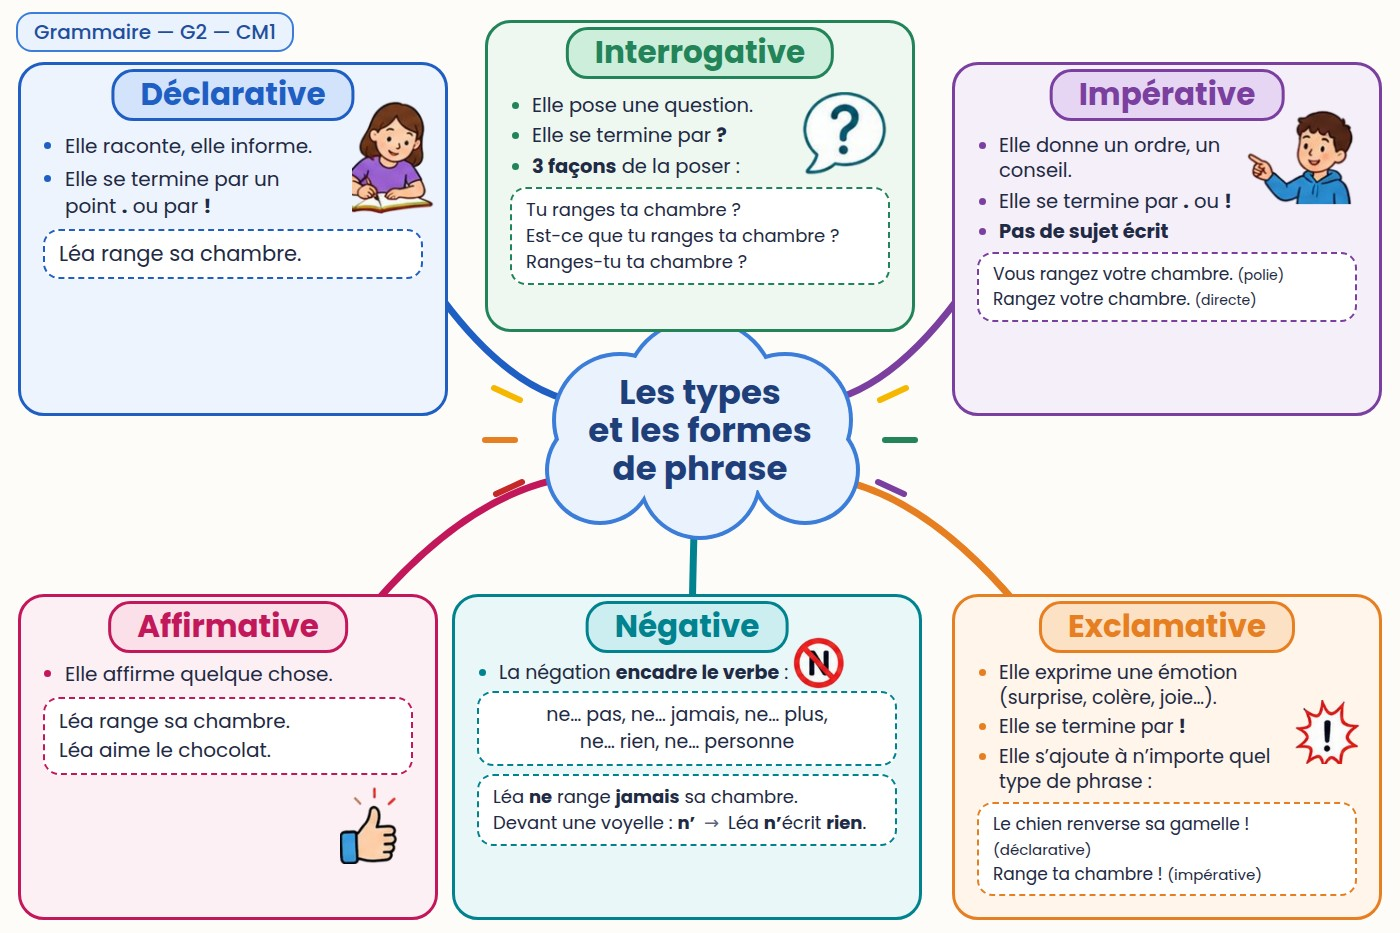
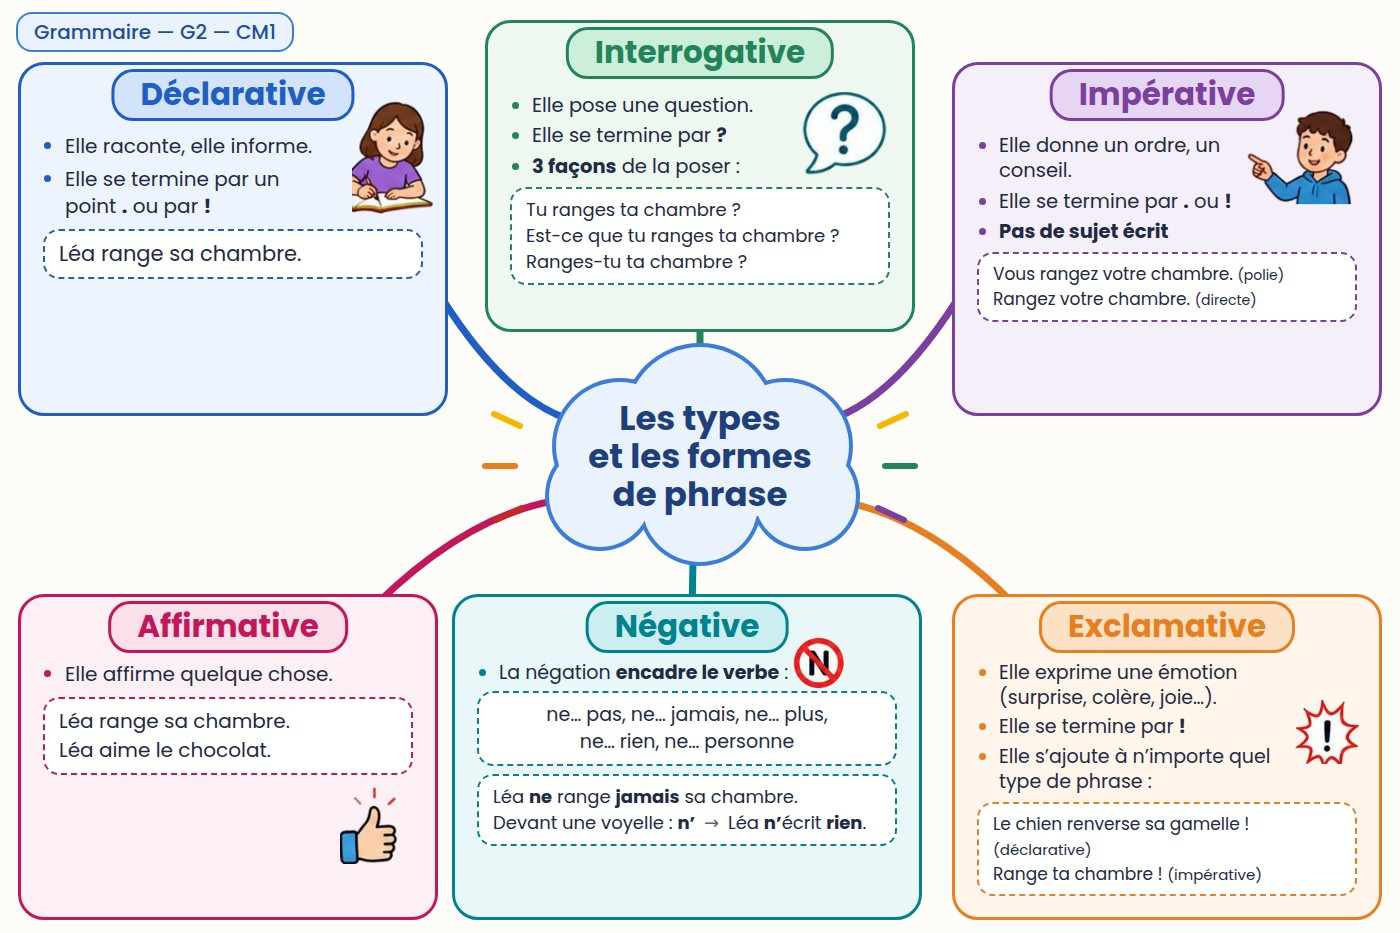
Cartes : numéros des zones dans le cadre, bandeau du bas retiré, G2 : nuage central descendu sous les cadres

Changed region(s): [[0.3071, 0.3419, 0.7064, 0.6217], [0.2764, 0.5906, 0.3071, 0.6527], [0.7064, 0.6217, 0.7371, 0.6527]]

diff --git a/index.html b/index.html
@@ -232,7 +232,7 @@ body.editing .body[contenteditable]{outline:2px dashed var(--etiq);outline-offse
 .zone{position:absolute;border-radius:max(8px,1.86cqw);border:max(2px,.25cqw) dashed color-mix(in srgb,var(--z) 55%,transparent);background:color-mix(in srgb,var(--z) 4%,transparent);transition:border-color .2s,background .2s}
 .zone:hover,.zone:focus-visible{border-color:var(--z);background:color-mix(in srgb,var(--z) 8%,transparent);outline:0}
 .num{display:inline-grid;place-items:center;width:2.1rem;height:2.1rem;border-radius:50%;background:var(--z);color:#fff;font-weight:700;font-size:1.05rem;box-shadow:0 2px 6px rgba(0,0,0,.25)}
-.zone .num{position:absolute;right:-.3rem;top:-.3rem}
+.zone .num{position:absolute;left:max(.4rem,1.3cqw);top:max(.35rem,.8cqw);right:auto;width:max(1.8rem,3.4cqw);height:max(1.8rem,3.4cqw);font-size:max(1rem,1.7cqw)}   /* numéro dans le cadre, à l'écart des bords (13/11/2026) */
 .num.done{background:#23845a}
 .sm-page,.sheet.lesson{position:relative}@media (max-width:700px){.sm-prog{order:3;flex-basis:100%;justify-content:center}.sm-bulle{min-width:11rem}}
 @media (max-width:700px){body .sheet a.sm-retour{position:static;display:block;width:max-content;margin:0 0 .5rem auto}}.sm-retour-scr{top:-.1rem;right:.8rem;font-size:.8rem;padding:.1rem .6rem}.scr-head{padding-right:0}.sm-retour{position:absolute;right:1.2rem;top:1rem;text-decoration:none;font-weight:700;font-size:.95rem;color:var(--z);background:#fff;border:2px solid var(--z);border-radius:2rem;padding:.3rem .9rem;z-index:2}.sm-retour:hover{background:var(--z);color:#fff}
@@ -831,7 +831,6 @@ function renderLessonMap(t){
     <div class="map"><img src="${IMG[t.id].carte}" alt="Carte mentale ${esc(code(t))} : ${esc(t.titre)}">${chipCM2(t)}${(L.masque||[]).map(z=>`<span class="masque" style="left:${z[0]}%;top:${z[1]}%;width:${z[2]}%;height:${z[3]}%" title="Pas au programme du CE2"></span>`).join('')}
       ${L.sections.map((s,k,a)=>{const z=s.zone,d=secDone(L,t.id,s.id),suiv=!d&&a.findIndex(x=>!secDone(L,t.id,x.id))===k;return `<a class="zone${d?' fait':suiv?' suivant':''}" href="#t=${t.id}/s:${s.id}" style="left:${z[0]}%;top:${z[1]}%;width:${z[2]}%;height:${z[3]}%;--z:${s.couleur}" aria-label="${esc(s.nom)}"><span class="num${d?' done':''}">${d?'✓':k+1}</span></a>`;}).join('')}
     </div>
-    <div class="map-path no-print">${L.sections.map((s,k)=>{const d=secDone(L,t.id,s.id);return `<a href="#t=${t.id}/s:${s.id}" style="--z:${s.couleur}"><span class="num${d?' done':''}">${d?'✓':k+1}</span>${esc(s.nom)}</a>`;}).join('<span class="arrow">›</span>')}</div>
     ${t.html?`<div class="body" style="margin-top:1.4rem">${t.html}</div>`:''}
   </div>`;
   if(t.html) renderConj(main);

diff --git a/outils/mapgen.py b/outils/mapgen.py
@@ -23,7 +23,7 @@ BR = (945, 568, 437, 350)
 CX, CY = 700, 440
 
 
-def branch(b):
+def branch(b, dy=0):
     l, t, w, h = b['geom']
     col = PAL[b['col']][0]
     bx = l + w / 2
@@ -37,8 +37,8 @@ def branch(b):
         ex, ey = CX, t + h - 5
     else:                                   # bas
         ex, ey = min(max(CX + (bx - CX) * 0.6, l + 80), l + w - 80), t + 5
-    ang = math.atan2(ey - CY, ex - CX)
-    sx, sy = CX + 115 * math.cos(ang), CY + 75 * math.sin(ang)
+    ang = math.atan2(ey - CY - dy, ex - CX)
+    sx, sy = CX + 115 * math.cos(ang), CY + dy + 75 * math.sin(ang)
     mx, my = (sx + ex) / 2, (sy + ey) / 2
     return f'<path d="M{sx:.0f} {sy:.0f} Q{mx:.0f} {sy:.0f} {ex:.0f} {ey:.0f}" stroke="{col}"/>'
 
@@ -49,7 +49,7 @@ def branch(b):
 CHIP_NIVEAUX = {}
 
 
-def build(lid, titre, chip, legend, boxes, sub='', title_size=40, legend_pos='right:18px;top:12px'):
+def build(lid, titre, chip, legend, boxes, sub='', title_size=40, legend_pos='right:18px;top:12px', cloud_dy=0):   # cloud_dy : descend le nuage central (et ses rayons, son titre) de cloud_dy px
     import re
     if lid in CHIP_NIVEAUX: chip = re.sub(r'—\s*CM1\s*$', '— ' + CHIP_NIVEAUX[lid], chip)
     nb=lambda t: re.sub(r'« ', '«&nbsp;', re.sub(r' ([?!:;»])', r'&nbsp;\1', t))
@@ -71,16 +71,16 @@ def build(lid, titre, chip, legend, boxes, sub='', title_size=40, legend_pos='ri
     for b in boxes:   # images posées sur un cadre (dessins découpés de la carte d'origine, outils/img/g2/) : fig = (nom, x, y, largeur)
         for nom, x, y, w in b.get('figs', []):
             parts.append(f'<img src="file://{D}/img/g2/{nom}.png" style="position:absolute;left:{x}px;top:{y}px;width:{w}px">')
-    branches = ''.join(branch(b) for b in boxes)
+    branches = ''.join(branch(b, cloud_dy) for b in boxes)
     html = f'''<!doctype html><html lang="fr"><head><meta charset="utf-8"><style>{CSS}</style></head><body>
 <svg class="bg" width="1400" height="933" viewBox="0 0 1400 933">
 <g fill="none" stroke-width="7" stroke-linecap="round">{branches}</g>
-<g><g fill="#3b7dd8"><circle cx="620" cy="420" r="68"/><circle cx="700" cy="395" r="78"/><circle cx="785" cy="420" r="68"/><circle cx="600" cy="470" r="55"/><circle cx="700" cy="478" r="62"/><circle cx="805" cy="470" r="55"/></g>
+<g transform="translate(0,{cloud_dy})"><g fill="#3b7dd8"><circle cx="620" cy="420" r="68"/><circle cx="700" cy="395" r="78"/><circle cx="785" cy="420" r="68"/><circle cx="600" cy="470" r="55"/><circle cx="700" cy="478" r="62"/><circle cx="805" cy="470" r="55"/></g>
 <g fill="#eaf2fd"><circle cx="620" cy="420" r="64"/><circle cx="700" cy="395" r="74"/><circle cx="785" cy="420" r="64"/><circle cx="600" cy="470" r="51"/><circle cx="700" cy="478" r="58"/><circle cx="805" cy="470" r="51"/><rect x="600" y="410" width="205" height="80"/></g>
 <g stroke-width="6" stroke-linecap="round"><path d="M520 400 l-26 -12" stroke="#f5b700"/><path d="M515 440 h-30" stroke="#e67e22"/><path d="M522 482 l-26 12" stroke="#c62828"/><path d="M880 400 l26 -12" stroke="#f5b700"/><path d="M885 440 h30" stroke="#23845a"/><path d="M878 482 l26 12" stroke="#7b3fa0"/></g></g>
 </svg>
 <div class="chip">{chip}</div>
-<div class="title" style="font-size:{title_size}px"><div>{titre}{f'<small>{sub}</small>' if sub else ''}</div></div>
+<div class="title" style="font-size:{title_size}px;margin-top:{cloud_dy}px"><div>{titre}{f'<small>{sub}</small>' if sub else ''}</div></div>
 {''.join(parts)}
 {f'<div style="position:absolute;{legend_pos};font-size:17px;background:#fff;border:2px solid #d8dde8;border-radius:14px;padding:2px 12px">{legend}</div>' if legend else ''}
 </body></html>'''

diff --git a/outils/lecons/g2_cartes.py b/outils/lecons/g2_cartes.py
@@ -52,7 +52,7 @@ def carte(lid, chip, niveau):
     ]
     legend = ''
     titre = 'Les types<br>et les formes<br>de phrase'
-    return build(lid, titre, chip, legend, boxes, sub='', title_size=34, legend_pos='right:26px;top:540px')
+    return build(lid, titre, chip, legend, boxes, sub='', title_size=34, legend_pos='right:26px;top:540px', cloud_dy=26)
 
 
 if __name__ == '__main__':

diff --git a/CLAUDE.md b/CLAUDE.md
@@ -51,7 +51,7 @@ Site des leçons interactives (ceintures de français CM1) publié avec GitHub P
   une ceinture absente de la classe demandée ouvre la leçon d'une autre classe qui l'a (21/10/2026).
 - Sommaire par classe : boutons CE2 / CM1 / CM2 (adresse `#niveau=CE2`…). Une leçon sans champ `niveau`
   est rangée en CM1 ; pour une leçon d'une autre classe, ajouter `niveau:'CE2'` ou `niveau:'CM2'` dans `TRACES`.
-- Cartes de G2 (13/11/2026) : les trois (`G2`, `G2-CE2`, `G2-CM2`) sont fabriquées par `outils/lecons/g2_cartes.py` (même apparence ; dessins des enfants et pictos = images découpées de la carte CM1 d’origine, `outils/img/g2/*.png`, jamais redessinés). `python3 outils/lecons/g2_cartes.py`, puis copier `outils/sortie/G2*_carte.jpeg` dans `images/`. Cadres pleins = zones cliquables : option `ext` de `build` (mapgen.py : le haut du cadre monte de `ext` px, le titre est posé à l’intérieur, `hstyle=top:30px`), zones de G2 = cadres exacts.
+- Cartes de G2 (13/11/2026) : les trois (`G2`, `G2-CE2`, `G2-CM2`) sont fabriquées par `outils/lecons/g2_cartes.py` (même apparence ; dessins des enfants et pictos = images découpées de la carte CM1 d’origine, `outils/img/g2/*.png`, jamais redessinés). `python3 outils/lecons/g2_cartes.py`, puis copier `outils/sortie/G2*_carte.jpeg` dans `images/`. Nuage central descendu (`cloud_dy=26`), numéros des zones à l’intérieur du cadre (CSS `.zone .num`, en haut à gauche). Cadres pleins = zones cliquables : option `ext` de `build` (mapgen.py : le haut du cadre monte de `ext` px, le titre est posé à l’intérieur, `hstyle=top:30px`), zones de G2 = cadres exacts.
 - CM2 : mêmes numéros, mêmes couleurs, mêmes notions qu'en CM1 (choix de l'enseignante, octobre 2026).
   Une leçon CM2 (id `XX-CM2`, code affiché `XX`) = la leçon CM1 + les écrans de `CM2_PLUS` (étiquette « CM2 »,
   placés après le dernier écran de leur section) + un encadré « En CM2, j'apprends aussi » sous la carte.
@@ -64,8 +64,7 @@ Site des leçons interactives (ceintures de français CM1) publié avec GitHub P
   `outils/inserer_cm2.py CE2`. Pas d'homophones au CE2. `retirer` : numéros d'écrans CM1 au 17/10/2026
   (`outils/lecons/titres_cm1_ref.json`) ou titres d'écrans ; le site compare les titres. Ceintures du CE2 : C6 et C7 (verbes irréguliers, sortis de C1-C5) ; au CM1 aussi (27/10/2026) : mêmes leçons, ids `C6` et `C7` (carte « … — CM1 »), fabriquées avec les
   leçons CE2 par `outils/lecons/ce2_seulement.py`. CE2 seulement : O7 (sons « o », « é », « è » et accents). Vue d'ensemble : `programmes/ceintures-trois-niveaux.html`.
-- **Carte de rubrique (08/11/2026, demande de l'enseignante : navigation plus explicite dans chaque onglet)** : un clic sur une zone de la carte principale (ou sur la
-  barre « 1 › 2 › … » sous la carte) ouvre d'abord une petite carte mentale de la rubrique (`renderSectionMap`, adresse `#t=G2/s:neg`) : au centre le nom de la rubrique,
+- **Carte de rubrique (08/11/2026, demande de l'enseignante : navigation plus explicite dans chaque onglet)** : un clic sur une zone de la carte principale (la barre « 1 › 2 › … » sous la carte a été retirée le 13/11/2026 : elle ne servait à rien) ouvre d'abord une petite carte mentale de la rubrique (`renderSectionMap`, adresse `#t=G2/s:neg`) : au centre le nom de la rubrique,
   en liste (jamais en rond : décision du 09/11/2026), un bloc par écran avec « 👀 Je regarde » (écran) et « ✏ À toi ! » (adresse `#t=G2/3?atoi` : ouvre l'écran avec l'exercice déjà lancé). Les écrans ont un lien
   vers leur rubrique (fil d'Ariane et bouton 🧭 dans la barre du bas) ; la carte de rubrique n’a plus que le bouton « Carte de la leçon » en haut à droite (09/11/2026). Pour toutes les leçons, sans fichier à fabriquer.
 - **Exercices selon la classe (08/11/2026)** : G1 à G7, V1 à V6, H1 à H7, O1 à O6, C1 à C9 ont des phrases différentes en CE2 (exercices de base : `atoi` + `plus`), CM1 (`NIV_ATOI[id][2]`) et CM2 (`NIV_ATOI[id][3]`), sans bouton : le niveau suit la classe de la leçon (`niveauDe(t)`). Un écran sans `niv` garde les mêmes exercices pour tous. À étendre aux autres leçons si l'enseignante le demande.
